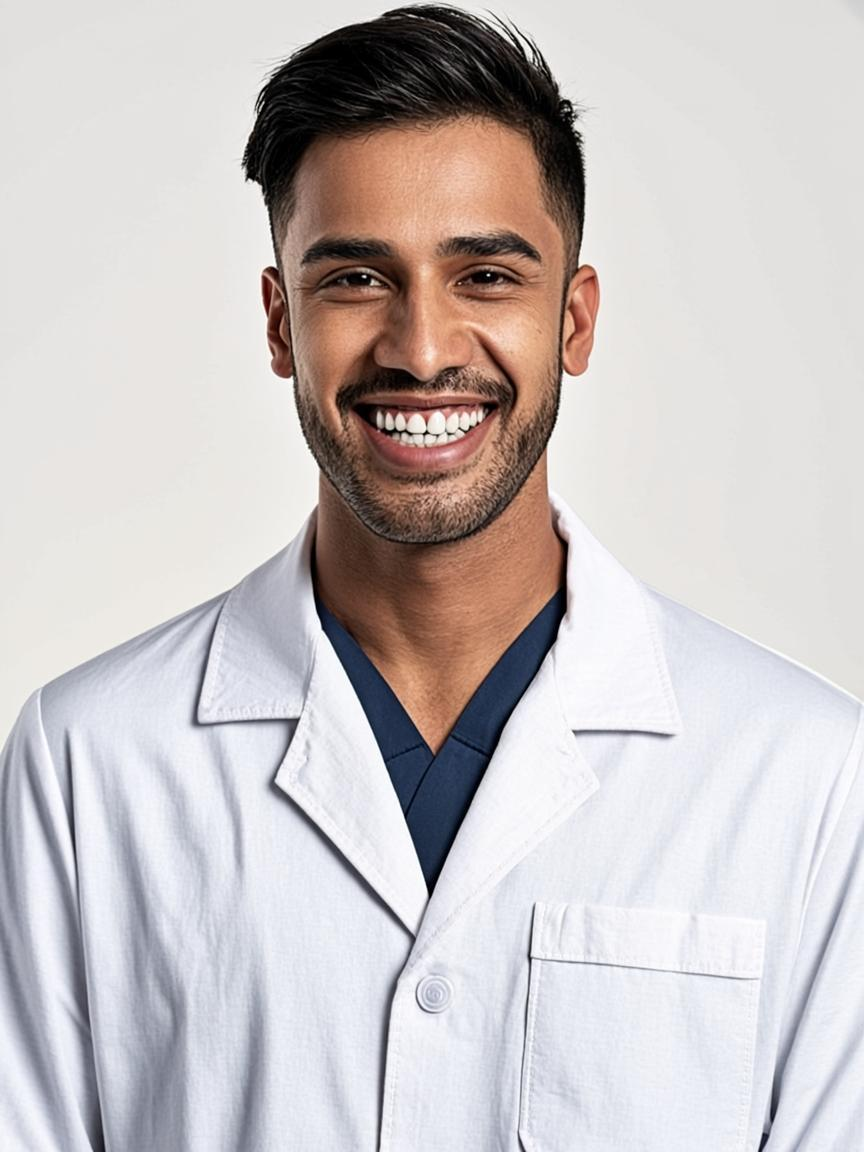
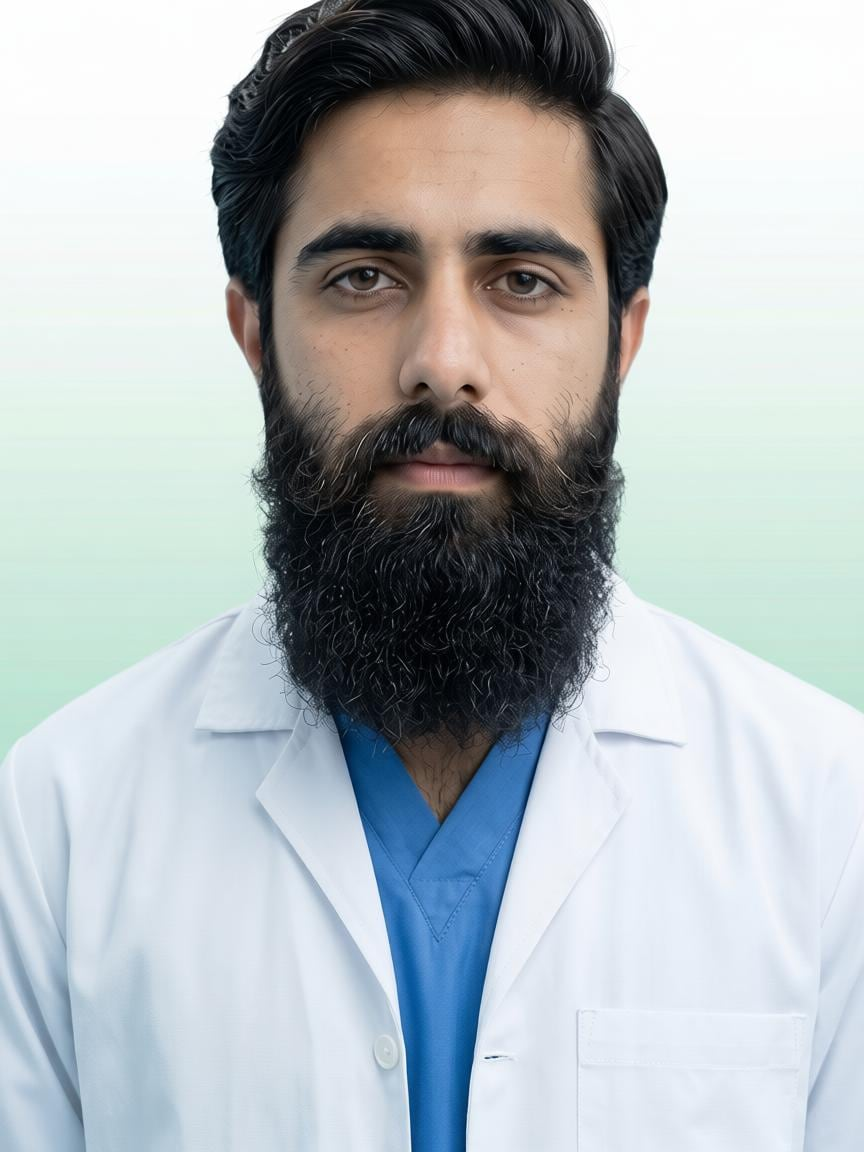
feat: Dr. Tanveer Khokhar — rename doctor, update PMDC #, themed portrait
- Doctor name → Dr. Tanveer Khokhar (Doctor section, Hero trust strip, Footer, SEO metadata, WhatsApp deep-links)
- PMDC reg # → 717175-03-D everywhere
- New doctor portrait: uploaded photo with AI-regraded porcelain→mint studio backdrop matching the Clinical Luxe theme (864×1152, optimized)
- Removed legacy kdent components + dead data lib
- gitignore upload/

diff --git a/src/components/lux/sections/Doctor.tsx b/src/components/lux/sections/Doctor.tsx
@@ -15,7 +15,7 @@ const CREDENTIALS = [
 
 export default function Doctor() {
   return (
-    <section id="doctor" className="sec-porcelain relative overflow-hidden" aria-label="Meet Dr. Yasir Arafat">
+    <section id="doctor" className="sec-porcelain relative overflow-hidden" aria-label="Meet Dr. Tanveer Khokhar">
       {/* décor */}
       <div aria-hidden="true" className="pointer-events-none absolute inset-0">
         <div className="lux-spin-slow absolute left-[-16%] top-[8%] h-[38rem] w-[38rem] rounded-full border border-teal/10" />
@@ -30,7 +30,7 @@ export default function Doctor() {
             <div className="lux-frame relative aspect-[3/4] overflow-hidden rounded-t-[10rem] rounded-b-[2rem]">
               <Image
                 src="/kdent/doctor-portrait.jpg"
-                alt="Dr. Yasir Arafat — Oral & Maxillofacial Surgeon at K Dent"
+                alt="Dr. Tanveer Khokhar — Oral & Maxillofacial Surgeon at K Dent"
                 fill
                 sizes="(min-width: 1024px) 40vw, 90vw"
                 className="object-cover"
@@ -39,7 +39,7 @@ export default function Doctor() {
             <div className="lux-card absolute -bottom-6 left-1/2 flex w-[86%] -translate-x-1/2 items-center gap-3 p-4">
               <GraduationCap className="h-5 w-5 shrink-0 text-teal" aria-hidden="true" />
               <div className="text-xs leading-snug text-muted-ink">
-                <span className="font-bold text-ink">Dr. Yasir Arafat</span>
+                <span className="font-bold text-ink">Dr. Tanveer Khokhar</span>
                 <br />
                 FCPS (PGR) · Oral &amp; Maxillofacial Surgery
               </div>
@@ -52,7 +52,7 @@ export default function Doctor() {
               <Eyebrow>The Surgeon</Eyebrow>
             </Reveal>
             <h2 className="display-lg mt-7 text-ink">
-              <SplitReveal text="Dr. Yasir Arafat" stagger={0.06} />
+              <SplitReveal text="Dr. Tanveer Khokhar" stagger={0.06} />
             </h2>
             <p className="serif-accent mt-2 text-xl md:text-2xl">
               Oral &amp; Maxillofacial Surgeon · Endodontist
@@ -61,7 +61,7 @@ export default function Doctor() {
               Great dentistry should feel calm, precise and honest — you&rsquo;ll feel the
               difference within the first ten minutes of your visit. From a simple filling to a
               complex implant, every case at K Dent is personally planned and treated by Dr.
-              Yasir.
+              Tanveer.
             </p>
 
             <dl className="mt-10 grid grid-cols-1 gap-px overflow-hidden rounded-2xl border border-ink/10 bg-ink/5 sm:grid-cols-2">
@@ -74,12 +74,12 @@ export default function Doctor() {
             </dl>
 
             <p className="mt-6 inline-flex items-center gap-2 rounded-full border border-teal/25 bg-mint/60 px-4 py-2 text-[11px] font-semibold uppercase tracking-[0.2em] text-teal-2">
-              PMDC Registered · 717176-03-D
+              PMDC Registered · 717175-03-D
             </p>
 
             <div className="mt-9 flex flex-wrap gap-4">
               <a
-                href="https://wa.me/923325855589?text=Assalamualaikum!%20I%20would%20like%20a%20consultation%20with%20Dr.%20Yasir%20Arafat."
+                href="https://wa.me/923325855589?text=Assalamualaikum!%20I%20would%20like%20a%20consultation%20with%20Dr.%20Tanveer%20Khokhar."
                 target="_blank"
                 rel="noreferrer"
                 className="btn-teal"

diff --git a/src/app/layout.tsx b/src/app/layout.tsx
@@ -27,7 +27,7 @@ export const metadata: Metadata = {
   metadataBase: new URL(siteUrl),
   title: "K Dent Dental & Aesthetic Care — Bani Gala, Islamabad",
   description:
-    "Bani Gala's boutique dental & aesthetic studio. Smile design, painless RCTs, clear aligners, implants & maxillofacial care by Dr. Yasir Arafat (PMDC 717176-03-D). Rated 5.0★. Mon–Sat 10 AM–7 PM. Reserve on WhatsApp: 0332 5855589.",
+    "Bani Gala's boutique dental & aesthetic studio. Smile design, painless RCTs, clear aligners, implants & maxillofacial care by Dr. Tanveer Khokhar (PMDC 717175-03-D). Rated 5.0★. Mon–Sat 10 AM–7 PM. Reserve on WhatsApp: 0332 5855589.",
   keywords: [
     "K Dent",
     "dentist Bani Gala",
@@ -36,7 +36,7 @@ export const metadata: Metadata = {
     "clear aligners Islamabad",
     "dental implants Bani Gala",
     "root canal Bani Gala",
-    "Dr Yasir Arafat dentist",
+    "Dr Tanveer Khokhar dentist",
     "aesthetic dentistry Islamabad",
     "luxury dental clinic Islamabad",
   ],

diff --git a/src/components/lux/Footer.tsx b/src/components/lux/Footer.tsx
@@ -109,7 +109,7 @@ export default function Footer() {
         <div className="hairline-dark mt-14" />
         <div className="mt-6 flex flex-col items-start justify-between gap-3 text-[11px] uppercase tracking-[0.22em] text-[rgba(222,242,238,0.35)] md:flex-row md:items-center">
           <span>© {year} K Dent Dental &amp; Aesthetic Care</span>
-          <span>Dr. Yasir Arafat · PMDC 717176-03-D</span>
+          <span>Dr. Tanveer Khokhar · PMDC 717175-03-D</span>
         </div>
       </div>
     </footer>

diff --git a/src/components/lux/sections/Hero.tsx b/src/components/lux/sections/Hero.tsx
@@ -133,7 +133,7 @@ export default function Hero() {
               </span>
             </span>
             <span className="hidden h-1 w-1 rounded-full bg-teal/50 sm:inline-block" aria-hidden="true" />
-            <span>PMDC 717176-03-D</span>
+            <span>PMDC 717175-03-D</span>
             <span className="hidden h-1 w-1 rounded-full bg-teal/50 sm:inline-block" aria-hidden="true" />
             <span>Mon–Sat 10 AM – 7 PM</span>
           </div>

diff --git a/docs/k-dent-research.md b/docs/k-dent-research.md
@@ -8,7 +8,7 @@
 | Field | Detail |
 |---|---|
 | **Clinic Name** | K Dent Dental & Aesthetic Care (also: K DENT DENTAL & AESTHETIC CLINIC) |
-| **Owner / Head Dentist** | Dr. Yasir Arafat |
+| **Owner / Head Dentist** | Dr. Tanveer Khokhar |
 | **Address** | Shop G-7, Farhan Heights, Jinnah Road, Bani Gala, Islamabad, Pakistan |
 | **Phone / WhatsApp** | 0332 5855589 (+92 332 5855589) |
 | **Instagram** | @kdent_care |
@@ -19,13 +19,13 @@
 
 ---
 
-## 2. Doctor Profile — Dr. Yasir Arafat
+## 2. Doctor Profile — Dr. Tanveer Khokhar
 
 - **BDS** (KMU — Khyber Medical University)
 - **RDS (Pak)** — Registered Dental Surgeon, Pakistan
 - **FCPS (PGR Oral & Maxillofacial Surgery)** — FCPS postgraduate resident/trainee in Oral & Maxillofacial Surgery
 - **C-Endo (Isb)** — Certificate in Endodontics (Islamabad)
-- **PMDC Registration #:** 717176-03-D
+- **PMDC Registration #:** 717175-03-D
 - Positioning: "Modern dentistry. Confident smiles."
 
 ---
@@ -84,7 +84,7 @@
 ## 6. Website Content Suggestion (pages/sections)
 
 1. **Hero** — Clinic name + tagline + CTA (WhatsApp booking) + rating badge (5.0★)
-2. **About / Meet the Doctor** — Dr. Yasir Arafat profile with qualifications & PMDC #
+2. **About / Meet the Doctor** — Dr. Tanveer Khokhar profile with qualifications & PMDC #
 3. **Services Grid** — 8–10 services with icons
 4. **Why Choose Us** — sterilization, modern equipment, family-friendly, affordability
 5. **Smile Gallery / Before-After** (client to provide photos)
